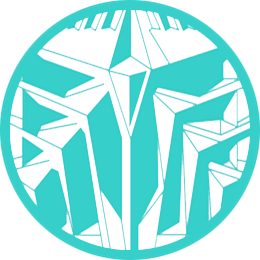
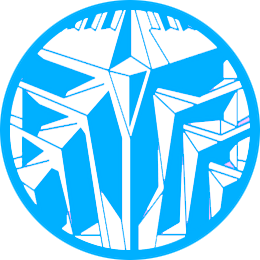
changing secondary color to blue

diff --git a/book_style.css b/book_style.css
@@ -12,15 +12,7 @@
 body {
   background-color:#e9e7e7;
 }
-#time {
-  padding:5px 25px 5px 0;
-  text-align: right;
-  color:#3dccc7;
-  font-size: 12px;
-}
-.container {
-  height:400px;
-}
+
 .header{
   /* background-color:#255084; */
   background-image: url("Resource/header_photo.png");
@@ -42,7 +34,7 @@ body {
 .header h1 {
   font-weight: 500;
   width:65%;
-  color:#3dccc7;;
+  color: #00b0ff;
   padding-left:10px;
 }
 
@@ -73,16 +65,16 @@ border-radius:10px 0 0 10px;;
   text-align: center;
   border-radius:0 10px 10px 0;
   cursor:pointer;
-  background-color: #3dccc7;
+  background-color: #00b0ff;
   color:#fff;
   font-size: 80%;
   font-weight:bold;
 }
 
 .search button:hover, .search button:active{
-  background: rgba(61, 204, 199, 0.23);
-  border: 1px solid #3dccc7;
-  color:#3dccc7;
+  background: rgba(0, 176, 255,0.5);
+  border: 1px solid #00b0ff;
+  /* color: #00b0ff; */
 }
 
 .main {
@@ -184,23 +176,27 @@ form {
 #sidebar li label{
 flex-basis: 100%;
 padding: 4px;
-color:#333;
+color:#c0c2c4;
 border:1px solid #c0c2c4;
 border-radius: 10px;
 }
 #sidebar li input[type="checkbox"]:checked + label{
   color:#fff;
   font-weight: 600;
-  background-color:#3dccc7;
+  background-color:#00b0ff;
   box-shadow: 3px 3px 3px #c0c2c4;
 }
 footer {
    position:fixed;
    bottom: 0;
+   height:70px;
    background-image: url("Resource/header_photo.png");
+   background-repeat: no-repeat;
+  background-position: center;
+  z-index: -1;
 }
 footer p, footer span{
-  color: #3dccc7;
+  color: #00b0ff;
 }
 footer p {
   font-size: 12px;
